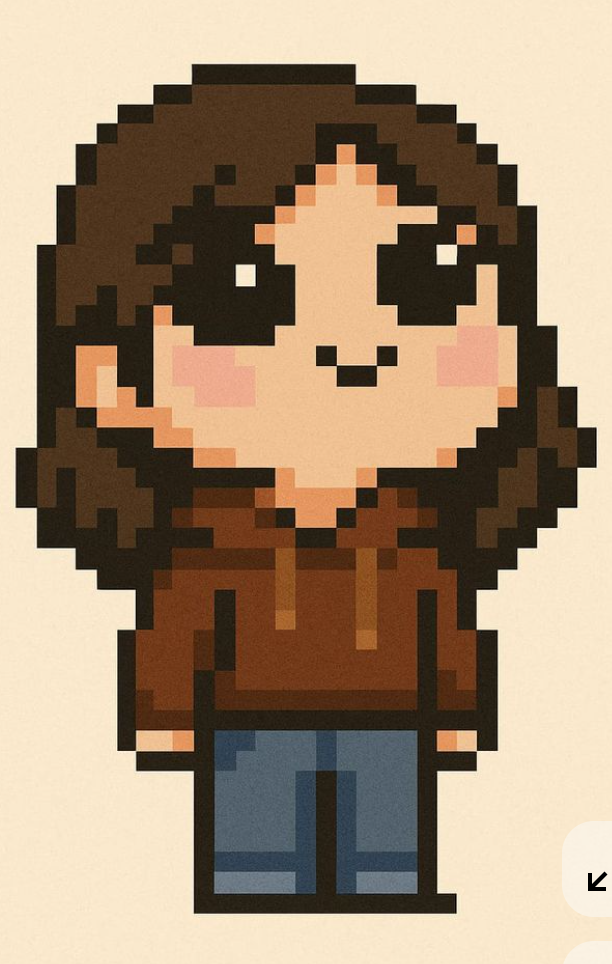
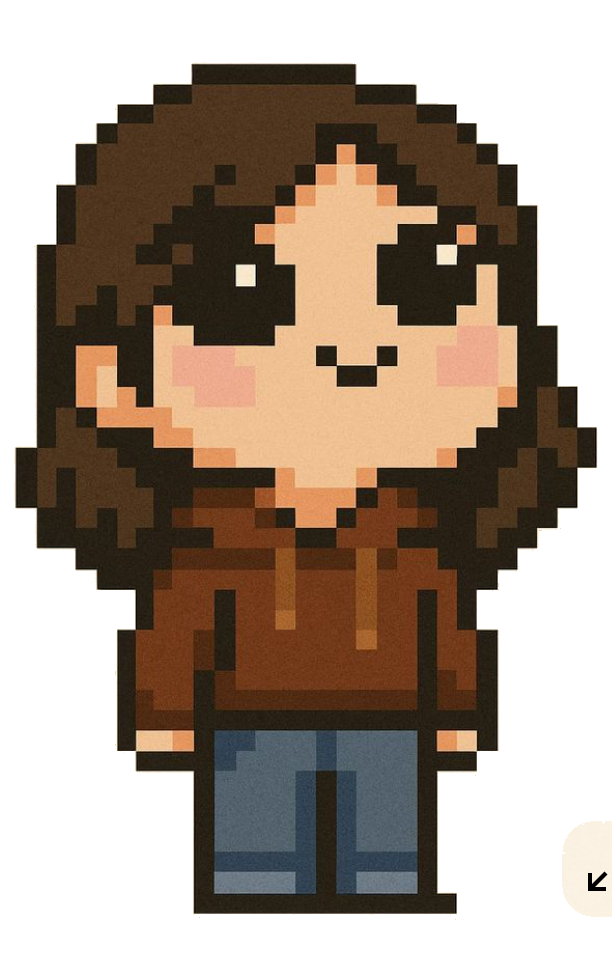
style: remove bg from pixel-girl and increase size to 250px

diff --git a/portfolio/css/style.css b/portfolio/css/style.css
@@ -81,8 +81,8 @@ body {
     bottom: 20%;
     left: 50%;
     transform: translateX(-50%);
-    width: 100px;
-    height: 100px;
+    width: 250px;
+    height: 250px;
     background-image: url('../assets/pixel-girl.png');
     background-size: contain;
     background-repeat: no-repeat;
